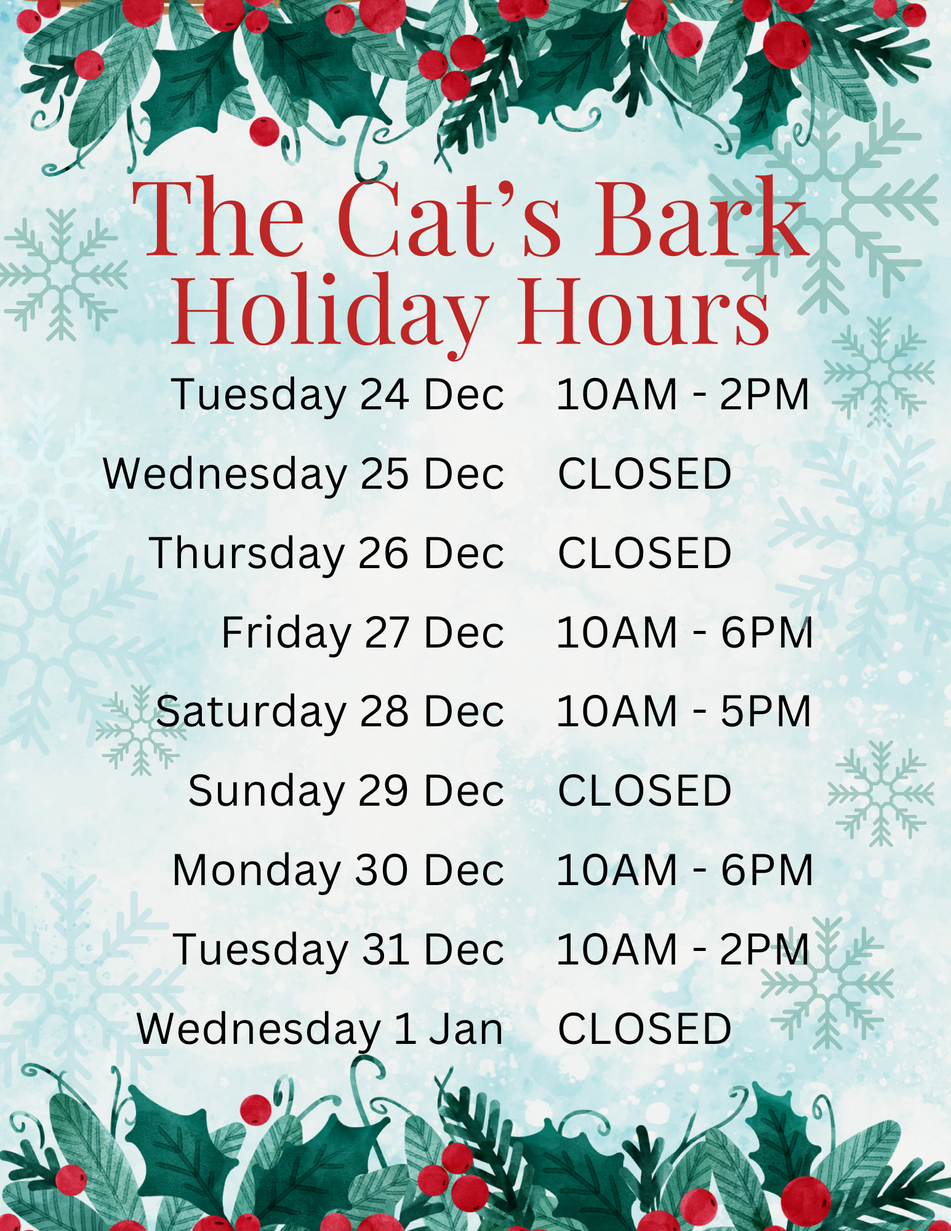
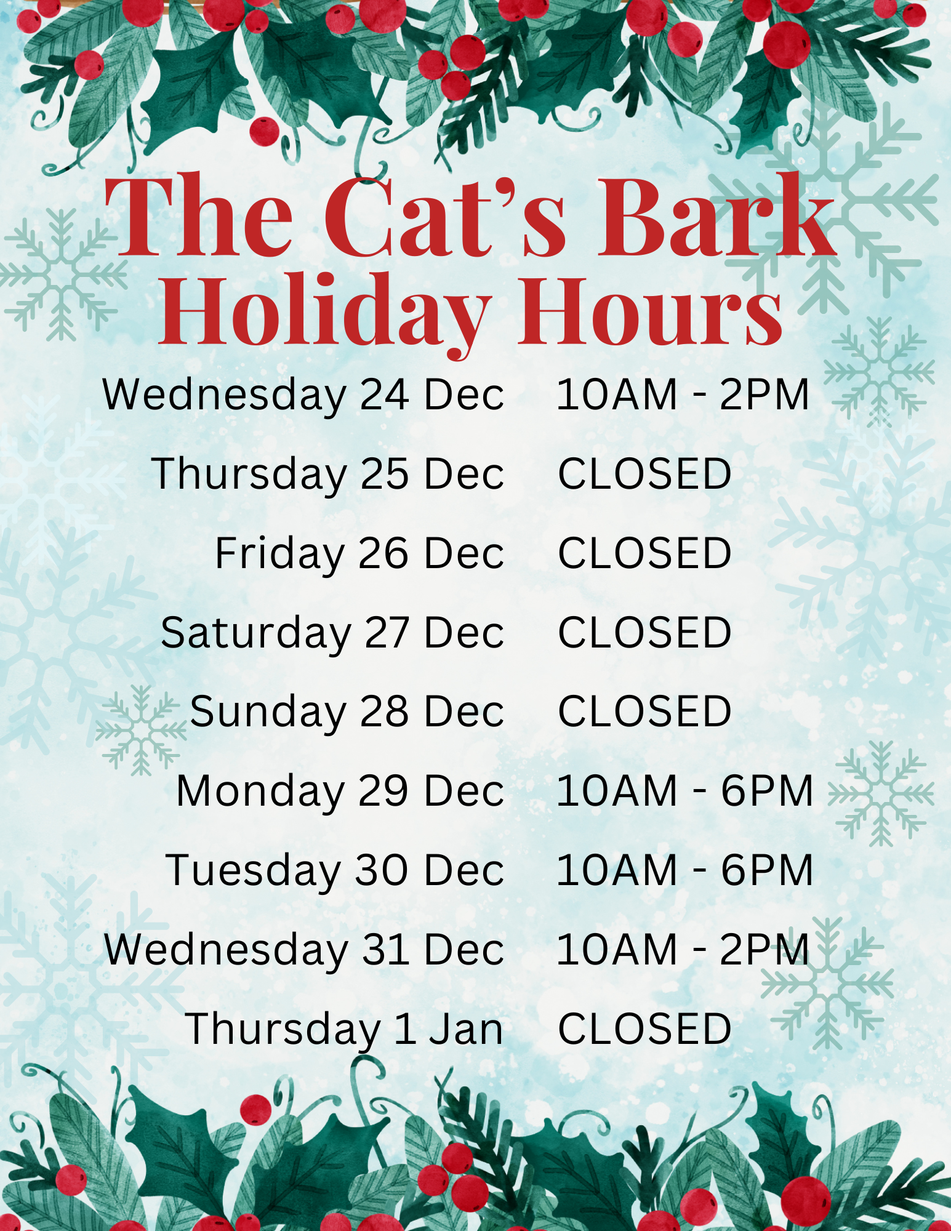
Adds holiday hours

diff --git a/index.html b/index.html
@@ -44,7 +44,7 @@
       <div id="event-modal" class="event-modal fade-in-second" style="display: none;">
         <div class="event-modal-content">
           <span class="close-btn">&times;</span>
-          <img alt="Poster for the Friends and Neighbours Discount Day" src="./images/friends-and-neighbours-discount-day.png">
+          <img alt="The Cat’s Bark Holiday Hours" src="./images/tcb-holiday-hours.png">
         </div>
       </div>
       <section class="hero-image-container">
